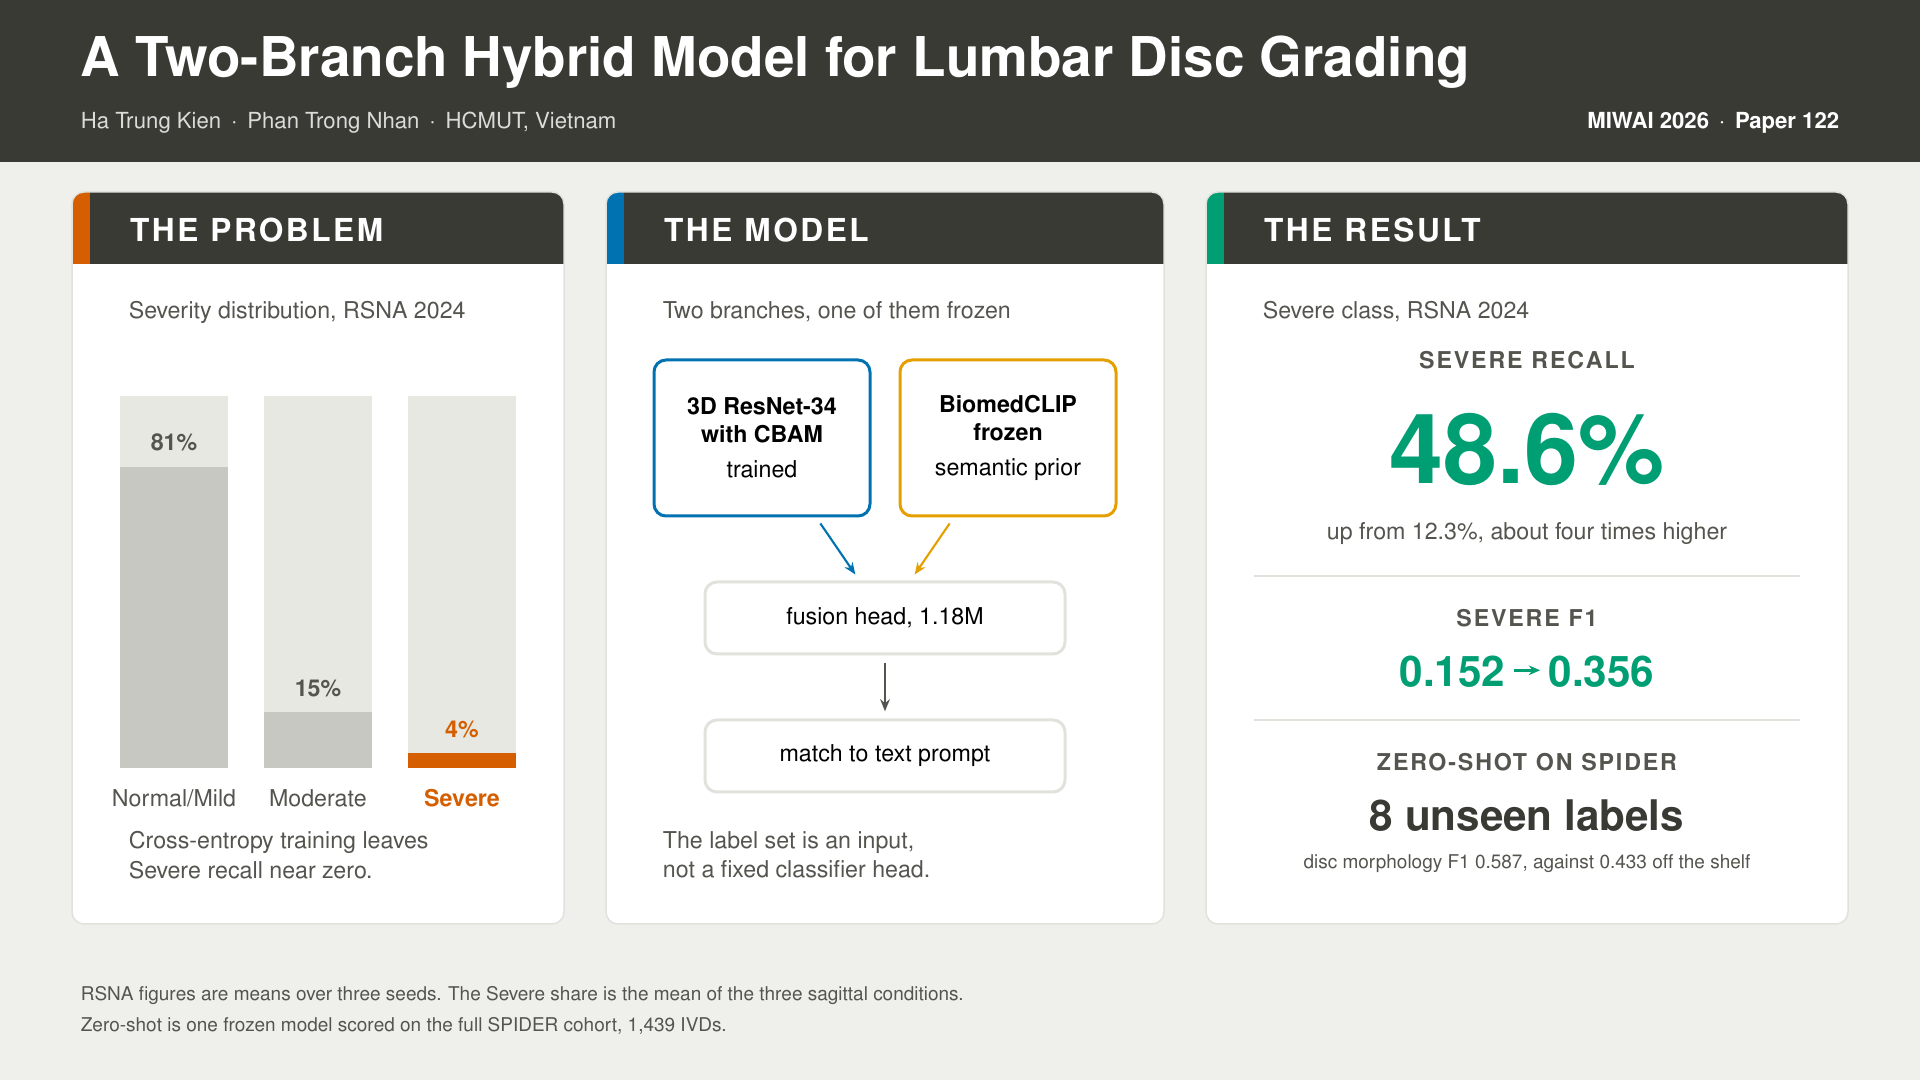
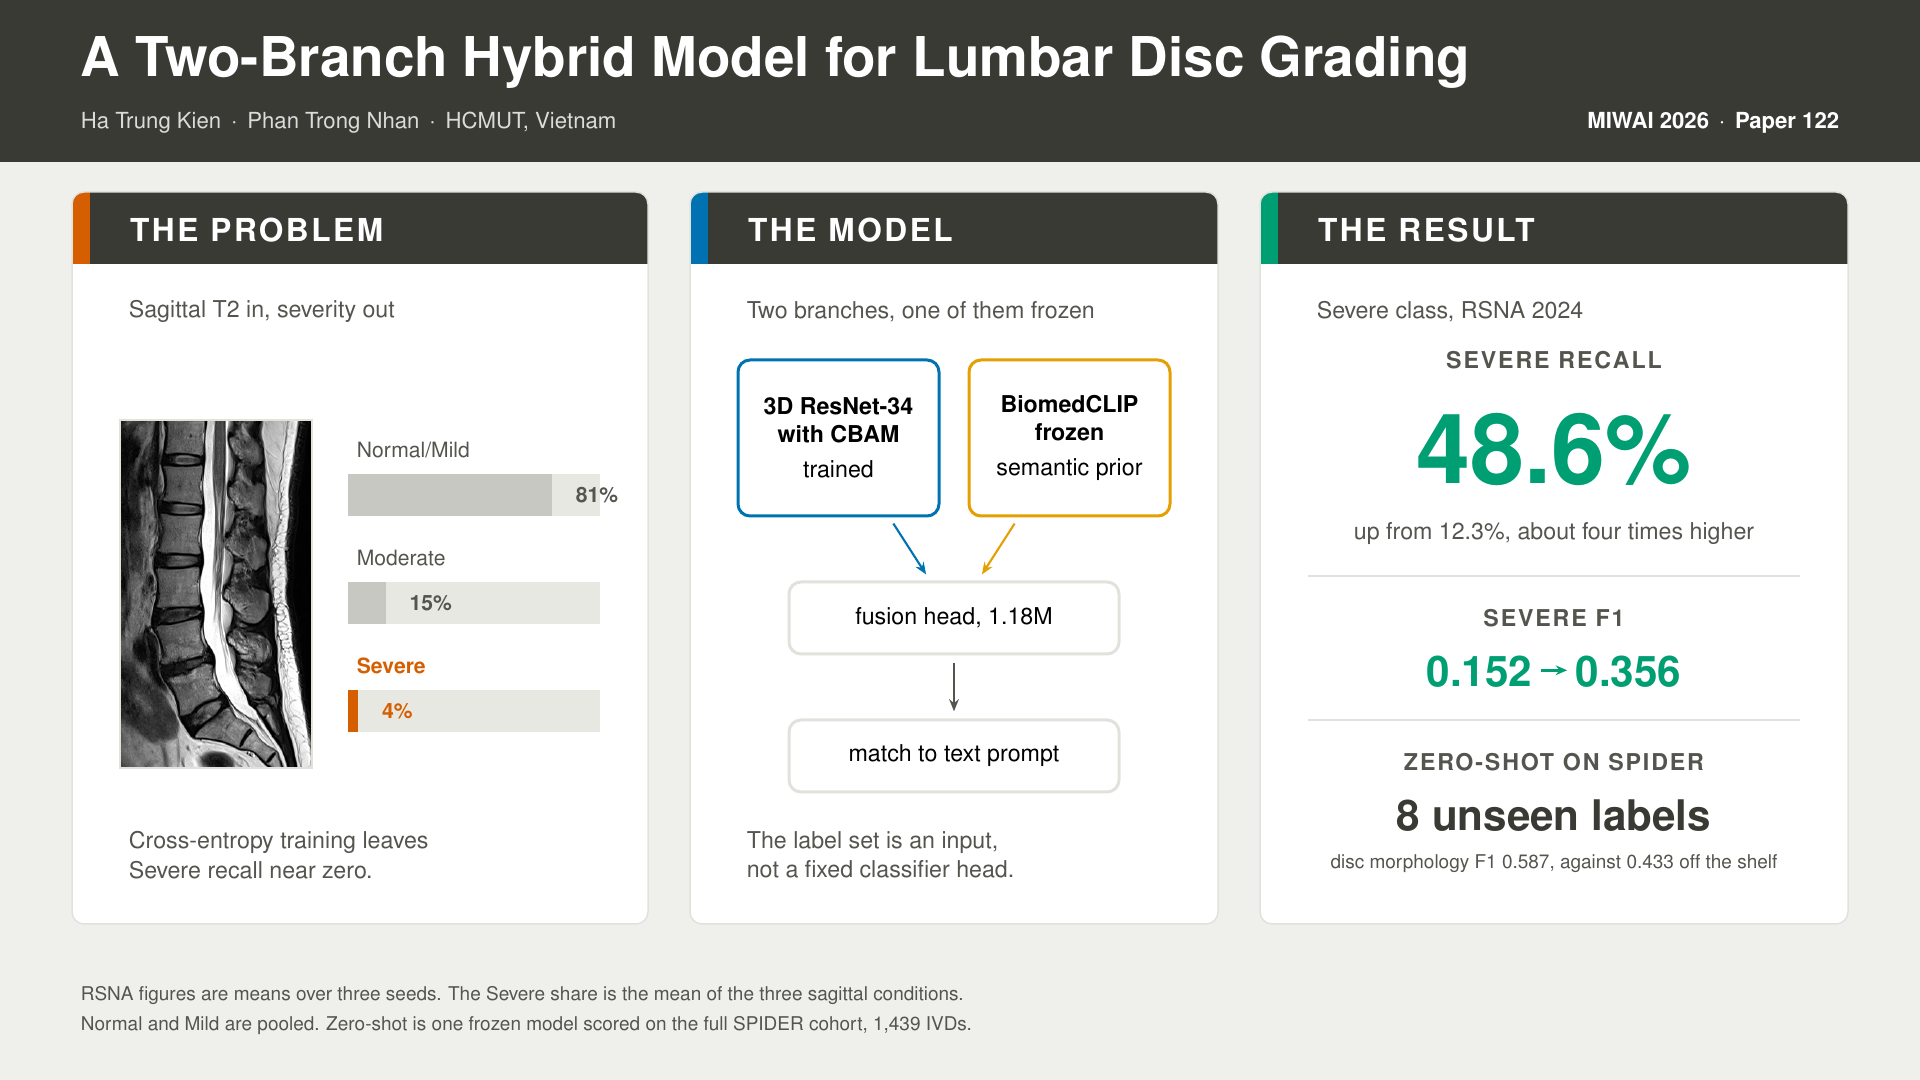
miwai(async): put an actual scan on the infographic
The page had no image on it. Every neighbouring paper from a medical-imaging
track in that conference grid will have one, and at thumbnail size an image
beats any amount of typography.

Licence checked before taking it. The RSNA 2024 data is released for
non-commercial use, explicitly including academic research and education, with
an obligation not to attempt to identify the subjects. A conference page for
an accepted paper sits inside that, and the paper itself already prints scans
from this dataset in the proceedings.

What travels is pixel data only: one mid-sagittal T2 slice, no DICOM header,
percentile windowed the same way the training pipeline windows its input, and
inspected for burned-in annotation before use. No overlay and no saliency map
on it, because this deck no longer makes a localisation claim.

Making room meant rebalancing the columns from 82/93/107 to 96/88/98, and the
severity chart had to turn on its side. Vertical bars in a column this narrow
put their centres 15mm apart, which is narrower than the word "Moderate", so
the three category labels collided. Horizontal bars give every label the full
column width, and the Severe bar becomes a 1.7mm stub against a 42mm track,
which carries the point better than the vertical version did.

diff --git a/paper/camera_ready/miwai_async/infographic.tex b/paper/camera_ready/miwai_async/infographic.tex
@@ -6,7 +6,7 @@
 % Every number comes from the abstract and tables of ../main.tex. Nothing here
 % reports the later thesis experiments.
 %
-% Grid: margin 12, gutter 7, panel widths 82 / 93 / 107 at x = 12 / 101 / 201.
+% Grid: margin 12, gutter 7, panel widths 96 / 88 / 98 at x = 12 / 115 / 210.
 % Columns are deliberately unequal: the result is why anyone stops, the problem
 % is one sentence of setup. Inset is 8 mm on every side of every panel, and
 % panel heads sit on that same 8 mm so they align with the text they govern.
@@ -30,6 +30,7 @@
 \usepackage{helvet}
 \renewcommand{\familydefault}{\sfdefault}
 \usepackage{microtype}
+\usepackage{graphicx}
 \usepackage{tikz}
 \usetikzlibrary{arrows.meta,positioning,calc}
 \pagestyle{empty}
@@ -79,52 +80,57 @@
 \node[anchor=east, text=white, font=\fontsize{10.5}{13}\selectfont\bfseries]
      at (308,159.5) {MIWAI 2026 \,$\cdot$\, Paper 122};
 
-\card{12}{82}{The problem}{oiVermillion}
-\card{101}{93}{The model}{oiBlue}
-\card{201}{107}{The result}{oiGreen}
+\card{12}{96}{The problem}{oiVermillion}
+\card{115}{88}{The model}{oiBlue}
+\card{210}{98}{The result}{oiGreen}
 
 %% ------------------------------------------------- 1. imbalance
 \node[anchor=west, font=\fontsize{11}{14}\selectfont, text=inkBody]
-     at (20,128) {Severity distribution, RSNA 2024};
+     at (20,128) {Sagittal T2 in, severity out};
 
-% Tracks first: three equal slots filled to different levels reads as a chart.
-% Loose rectangles on a stray baseline rule read as unfinished.
-\foreach \bx in {20,44,68} \fill[trackGrey] (\bx,52) rectangle ++(18,62);
-\fill[barGrey]      (20,52) rectangle ++(18,50.2);
-\fill[barGrey]      (44,52) rectangle ++(18,9.3);
-\fill[oiVermillion] (68,52) rectangle ++(18,2.5);
+% One mid-sagittal slice, no overlay and no saliency claim on it.
+\node[anchor=south west, inner sep=0] at (20,52)
+     {\includegraphics[width=32mm,height=58mm]{mri_sagittal_panel.png}};
+\draw[cardLine, line width=0.25mm] (20,52) rectangle ++(32,58);
 
-% Value labels at one constant offset above each bar, not three.
-\node[font=\fontsize{11}{13}\selectfont\bfseries, text=inkBody]       at (29,106.2) {81\%};
-\node[font=\fontsize{11}{13}\selectfont\bfseries, text=inkBody]       at (53,65.3)  {15\%};
-\node[font=\fontsize{11}{13}\selectfont\bfseries, text=oiVermillion]  at (77,58.5)  {4\%};
-% One baseline for all three category labels.
-\node[font=\fontsize{11}{13}\selectfont, text=inkBody]              at (29,47) {Normal/Mild};
-\node[font=\fontsize{11}{13}\selectfont, text=inkBody]              at (53,47) {Moderate};
-\node[font=\fontsize{11}{13}\selectfont\bfseries, text=oiVermillion] at (77,47) {Severe};
+% Horizontal bars, because this column is narrow: vertical bars 15 mm apart
+% cannot carry a category label as long as "Moderate" without collision.
+% Each bar sits in a full-length track, so the three read as one scale.
+\foreach \by in {94,76,58} \fill[trackGrey] (58,\by) rectangle ++(42,7);
+\fill[barGrey]      (58,94) rectangle ++(34.0,7);
+\fill[barGrey]      (58,76) rectangle ++(6.3,7);
+\fill[oiVermillion] (58,58) rectangle ++(1.7,7);
+
+\node[anchor=west, font=\fontsize{10}{12}\selectfont, text=inkBody]      at (58,105) {Normal/Mild};
+\node[anchor=west, font=\fontsize{10}{12}\selectfont, text=inkBody]      at (58,87)  {Moderate};
+\node[anchor=west, font=\fontsize{10}{12}\selectfont\bfseries, text=oiVermillion] at (58,69) {Severe};
+
+\node[anchor=west, font=\fontsize{10}{12}\selectfont\bfseries, text=inkBody]      at (94.5,97.5) {81\%};
+\node[anchor=west, font=\fontsize{10}{12}\selectfont\bfseries, text=inkBody]      at (66.8,79.5) {15\%};
+\node[anchor=west, font=\fontsize{10}{12}\selectfont\bfseries, text=oiVermillion] at (62.2,61.5) {4\%};
 
 \node[anchor=west, font=\fontsize{11}{14}\selectfont, text=inkBody, align=left]
      at (20,37.5) {Cross-entropy training leaves\\Severe recall near zero.};
 
 %% ------------------------------------------------- 2. architecture
 \node[anchor=west, font=\fontsize{11}{14}\selectfont, text=inkBody]
-     at (109,128) {Two branches, one of them frozen};
+     at (123,128) {Two branches, one of them frozen};
 
 \node[draw=oiBlue, line width=0.5mm, fill=white, rounded corners=2mm,
-      minimum width=36mm, minimum height=26mm, align=center,
-      font=\fontsize{11}{13.5}\selectfont] (bxA) at (127,107)
+      minimum width=33.5mm, minimum height=26mm, align=center,
+      font=\fontsize{11}{13.5}\selectfont] (bxA) at (139.75,107)
      {\textbf{3D ResNet-34}\\\textbf{with CBAM}\\[3pt] trained};
 \node[draw=oiOrange, line width=0.5mm, fill=white, rounded corners=2mm,
-      minimum width=36mm, minimum height=26mm, align=center,
-      font=\fontsize{11}{13.5}\selectfont] (bxB) at (168,107)
+      minimum width=33.5mm, minimum height=26mm, align=center,
+      font=\fontsize{11}{13.5}\selectfont] (bxB) at (178.25,107)
      {\textbf{BiomedCLIP}\\\textbf{frozen}\\[3pt] semantic prior};
 \node[draw=cardLine, line width=0.5mm, fill=white, rounded corners=2mm,
-      minimum width=60mm, minimum height=12mm, align=center,
-      font=\fontsize{11}{13}\selectfont] (fus) at (147.5,77) {fusion head, 1.18M};
+      minimum width=55mm, minimum height=12mm, align=center,
+      font=\fontsize{11}{13}\selectfont] (fus) at (159,77) {fusion head, 1.18M};
 % The chain ends in a box like the rest of it, not in floating text.
 \node[draw=cardLine, line width=0.5mm, fill=white, rounded corners=2mm,
-      minimum width=60mm, minimum height=12mm, align=center,
-      font=\fontsize{11}{13}\selectfont] (out) at (147.5,54) {match to text prompt};
+      minimum width=55mm, minimum height=12mm, align=center,
+      font=\fontsize{11}{13}\selectfont] (out) at (159,54) {match to text prompt};
 
 \draw[-{Stealth[length=2mm,width=1.6mm]}, oiBlue,   line width=0.35mm,
       shorten >=1.2mm, shorten <=1.2mm] (bxA) -- (fus);
@@ -134,34 +140,34 @@
       shorten >=1.2mm, shorten <=1.2mm] (fus) -- (out);
 
 \node[anchor=west, font=\fontsize{11}{14}\selectfont, text=inkBody, align=left]
-     at (109,37.5) {The label set is an input,\\not a fixed classifier head.};
+     at (123,37.5) {The label set is an input,\\not a fixed classifier head.};
 
 %% ------------------------------------------------- 3. results
 \node[anchor=west, font=\fontsize{11}{14}\selectfont, text=inkBody]
-     at (209,128) {Severe class, RSNA 2024};
+     at (218,128) {Severe class, RSNA 2024};
 
-\node[font=\fontsize{11}{13}\selectfont\bfseries, text=inkBody] at (254.5,120) {\lbl{Severe recall}};
-\node[font=\fontsize{46}{48}\selectfont\bfseries, text=oiGreen] at (254.5,105) {48.6\%};
-\node[font=\fontsize{11}{14}\selectfont, text=inkBody] at (254.5,91)
+\node[font=\fontsize{11}{13}\selectfont\bfseries, text=inkBody] at (259,120) {\lbl{Severe recall}};
+\node[font=\fontsize{46}{48}\selectfont\bfseries, text=oiGreen] at (259,105) {48.6\%};
+\node[font=\fontsize{11}{14}\selectfont, text=inkBody] at (259,91)
      {up from 12.3\%, about four times higher};
 
-\draw[cardLine, line width=0.25mm] (209,84) -- (300,84);
+\draw[cardLine, line width=0.25mm] (218,84) -- (300,84);
 
-\node[font=\fontsize{11}{13}\selectfont\bfseries, text=inkBody] at (254.5,77) {\lbl{Severe F1}};
-\node[font=\fontsize{20}{22}\selectfont\bfseries, text=oiGreen] at (254.5,68) {0.152\,\arr\,0.356};
+\node[font=\fontsize{11}{13}\selectfont\bfseries, text=inkBody] at (259,77) {\lbl{Severe F1}};
+\node[font=\fontsize{20}{22}\selectfont\bfseries, text=oiGreen] at (259,68) {0.152\,\arr\,0.356};
 
-\draw[cardLine, line width=0.25mm] (209,60) -- (300,60);
+\draw[cardLine, line width=0.25mm] (218,60) -- (300,60);
 
-\node[font=\fontsize{11}{13}\selectfont\bfseries, text=inkBody] at (254.5,53) {\lbl{Zero-shot on SPIDER}};
-\node[font=\fontsize{20}{22}\selectfont\bfseries, text=inkDark] at (254.5,44) {8 unseen labels};
-\node[font=\fontsize{9}{11}\selectfont, text=inkBody] at (254.5,36)
+\node[font=\fontsize{11}{13}\selectfont\bfseries, text=inkBody] at (259,53) {\lbl{Zero-shot on SPIDER}};
+\node[font=\fontsize{20}{22}\selectfont\bfseries, text=inkDark] at (259,44) {8 unseen labels};
+\node[font=\fontsize{9}{11}\selectfont, text=inkBody] at (259,36)
      {disc morphology F1 0.587, against 0.433 off the shelf};
 
 %% ---------------------------------------------------------------- footer
 \node[anchor=west, font=\fontsize{9}{11}\selectfont, text=inkBody] at (12,14)
      {RSNA figures are means over three seeds. The Severe share is the mean of the three sagittal conditions.};
 \node[anchor=west, font=\fontsize{9}{11}\selectfont, text=inkBody] at (12,9)
-     {Zero-shot is one frozen model scored on the full SPIDER cohort, 1{,}439 IVDs.};
+     {Normal and Mild are pooled. Zero-shot is one frozen model scored on the full SPIDER cohort, 1{,}439 IVDs.};
 
 \end{tikzpicture}
 \end{document}

diff --git a/paper/camera_ready/figures/make_mri_panel.py b/paper/camera_ready/figures/make_mri_panel.py
@@ -1,0 +1,36 @@
+"""Export one mid-sagittal lumbar T2 slice for the conference infographic.
+
+RSNA 2024 data is licensed for non-commercial academic research and education,
+with an obligation not to attempt to identify the subjects. This exports pixel
+data only: no DICOM header travels with the PNG, and the slice is inspected for
+burned-in annotation before use.
+
+    python3 figures/make_mri_panel.py
+"""
+import numpy as np, pydicom
+from pathlib import Path
+from PIL import Image
+
+RAW = Path("rsna-2024-lumbar-spine-degenerative-classification")
+STUDY, SERIES = "4003253", "702807833"
+OUT = Path("paper/camera_ready/figures/mri_sagittal_panel.png")
+
+files = sorted((RAW / "train_images" / STUDY / SERIES).glob("*.dcm"),
+               key=lambda p: int(p.stem))
+ds = pydicom.dcmread(str(files[len(files) // 2]))
+img = ds.pixel_array.astype(np.float32)
+
+# Percentile windowing, the same 1st to 99th clip the training pipeline uses.
+lo, hi = np.percentile(img, [1, 99])
+img = np.clip((img - lo) / (hi - lo), 0, 1)
+
+# Crop to a portrait frame around the spine. The lumbar column sits in the
+# middle third horizontally on these sagittal series.
+h, w = img.shape
+x0, x1 = int(w * 0.30), int(w * 0.72)
+y0, y1 = int(h * 0.16), int(h * 0.92)
+img = img[y0:y1, x0:x1]
+
+Image.fromarray((img * 255).astype(np.uint8)).save(OUT)
+print(f"wrote {OUT}  {img.shape[1]}x{img.shape[0]}  "
+      f"aspect {img.shape[1]/img.shape[0]:.2f}")
